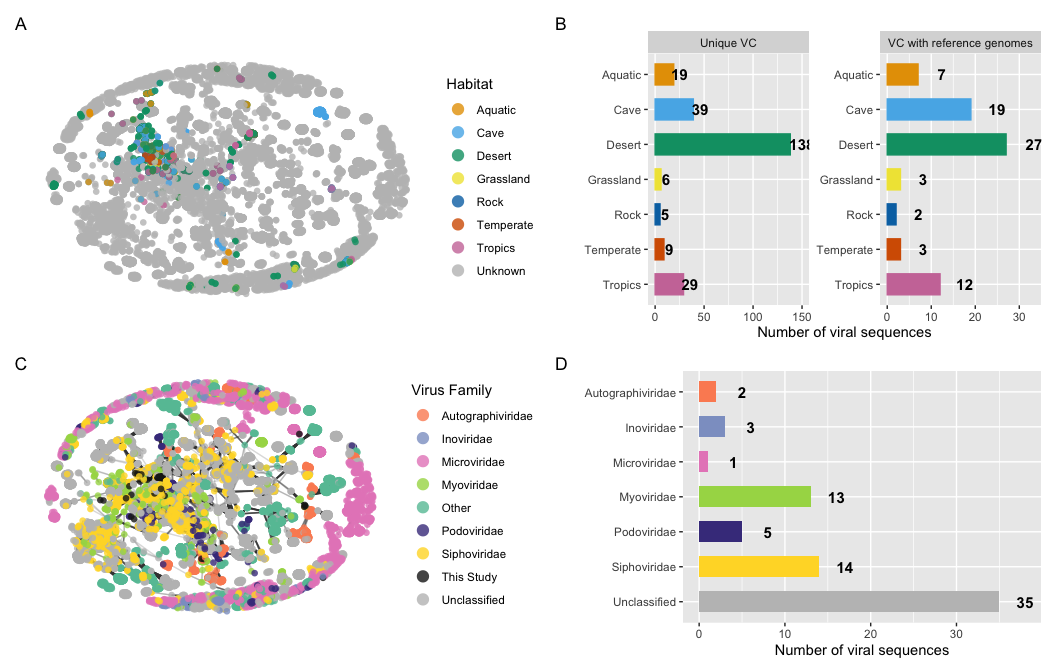
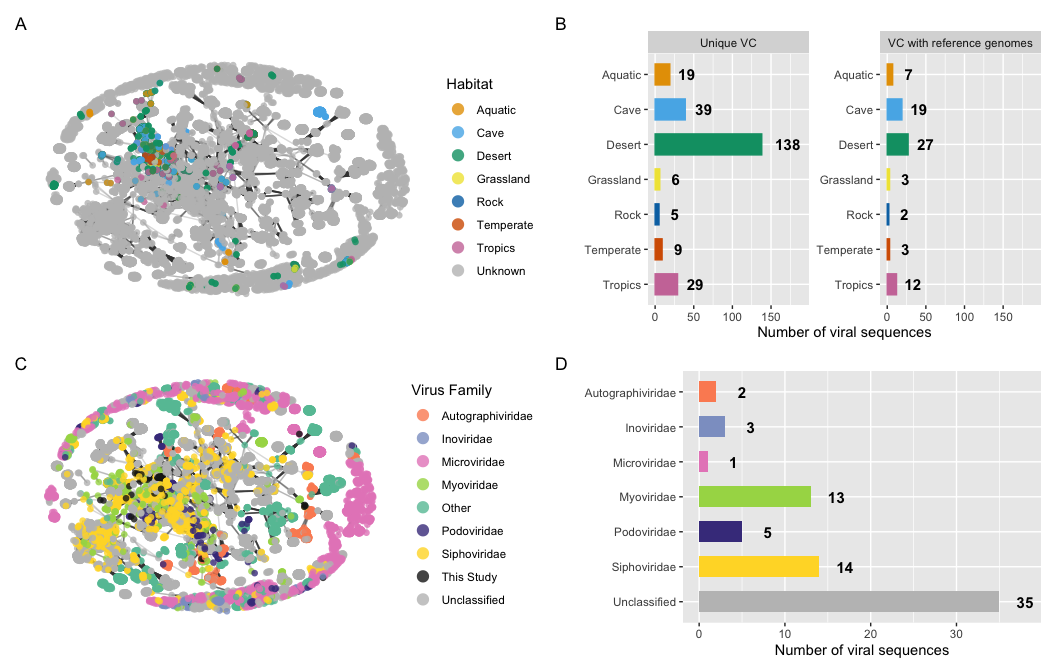
Updating network and bars in Fig 2

diff --git a/scripts/10_CyanoPhage_RMarkdown.md b/scripts/10_CyanoPhage_RMarkdown.md
@@ -20,7 +20,8 @@ library(ggforce)
 
 # vOTU processing
 
-# following some of Christian Santos Medellin’s scripts <https://github.com/cmsantosm/SpatioTemporalViromes/blob/master/Processing/Scripts/votu_filtering.Rmd>
+Following some of Christian Santos Medellin’s scripts:
+<https://github.com/cmsantosm/SpatioTemporalViromes/blob/master/Processing/Scripts/votu_filtering.Rmd>
 
 ``` r
 # get file names
@@ -796,13 +797,14 @@ checkv_cdhit_tax.meta <- left_join(checkv_cdhit_tax, meta, by = c(Sample = "samp
 
 vir.hab.nodes.hq <- clstrd.nodes %>%
     left_join(select(clstr.master, VC, ClstrComp), by = "VC") %>%
-    left_join(checkv_cdhit_tax.meta, by = c(VC = "VCStatus")) %>%
+    left_join(select(checkv_cdhit_tax.meta, VCStatus, checkv_quality,
+        Habitat_Group), by = c(VC = "VCStatus")) %>%
     filter(!checkv_quality %in% c("Not-determined")) %>%
     mutate(Habitat_Group = ifelse(is.na(Habitat_Group), "Unknown",
         as.character(Habitat_Group)))  #%>%
 # filter(Source == 'refseq' | ClstrComp == 'both')
 
-vir.hab.nodes.hq <- vir.hab.nodes.hq[-c(26:69, 71:72)]
+vir.hab.nodes.hq <- vir.hab.nodes.hq[-c(66)]
 
 
 # Plot
@@ -900,7 +902,7 @@ meta.sub.seq <- checkv_cdhit_tax.meta %>%
         "VC with reference genomes")) %>%
     tally() %>%
     arrange(desc(Habitat_Group)) %>%
-    mutate(lab_ypos = n + 0.05 * n + 5) %>%
+    mutate(lab_ypos = n + 0.1 * n + 20) %>%
     mutate(norm = n/sum(n) * 100)
 
 a_hab_seq <- ggplot(meta.sub.seq, aes(y = Habitat_Group, fill = Habitat_Group,
@@ -912,7 +914,8 @@ a_hab_seq <- ggplot(meta.sub.seq, aes(y = Habitat_Group, fill = Habitat_Group,
         "#D55E00", "#CC79A7", "gray75")) + ylab("") + facet_wrap(~Order,
     scales = "free") + xlab("Number of viral sequences") + geom_text(aes(x = lab_ypos,
     label = n, group = Habitat_Group), fontface = "bold", size = 4,
-    color = "black") + scale_y_discrete(limits = rev) + theme(legend.position = "none")  #+ xlim(0,190)
+    color = "black") + scale_y_discrete(limits = rev) + theme(legend.position = "none") +
+    xlim(0, 190)
 
 # taxonomy
 
